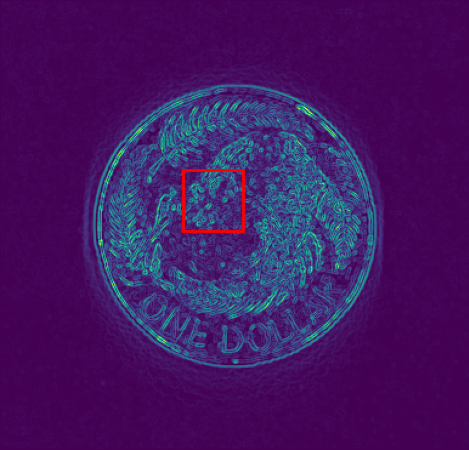
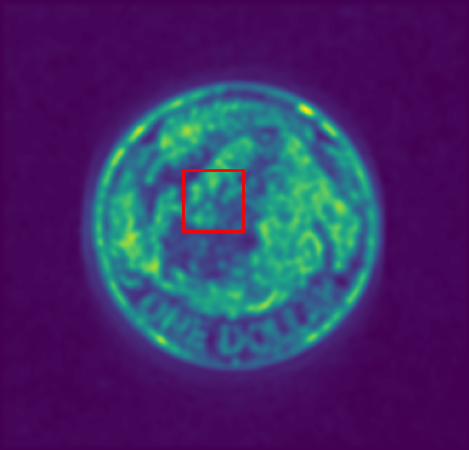
feat: implement mean filtering

Changed region(s): [[0.1493, 0.1556, 0.8358, 0.84]]

diff --git a/CS373_coin_detection.py b/CS373_coin_detection.py
@@ -151,6 +151,18 @@ def combined_scharr_filter(image_width, image_height, horizontal_scharr_px_array
             new_px_array[i][j] = abs(vertical_scharr_px_array[i][j]) + abs(horizontal_scharr_px_array[i][j])
     return new_px_array
 
+# 5x5 mean filter
+def mean_filter(image_width, image_height, px_array):
+    new_px_array = createInitializedGreyscalePixelArray(image_width, image_height)
+    for i in range(2, image_height - 2):
+        for j in range(2, image_width - 2):
+            sum = 0
+            for k in range(5):
+                for l in range(5):
+                    sum += px_array[i - 2 + k][j - 2 + l]
+            new_px_array[i][j] = abs(sum / 25)
+    return new_px_array
+    
 
 # This is our code skeleton that performs the coin detection.
 def main(input_path, output_path):
@@ -181,10 +193,13 @@ def main(input_path, output_path):
     vertical_scharr_px_array = vertical_scharr_filter(image_width, image_height, contrast_stretched_px_array)
 
     # Combine horizontal and vertical Scharr filters
-    px_array = combined_scharr_filter(image_width, image_height, horizontal_scharr_px_array, vertical_scharr_px_array)
+    combined_scharr_px_array = combined_scharr_filter(image_width, image_height, horizontal_scharr_px_array, vertical_scharr_px_array)
     
-    
-    
+    # Perform mean filter 3 times n loop
+    mean_filtered_px_array = mean_filter(image_width, image_height, combined_scharr_px_array)
+    mean_filtered_px_array = mean_filter(image_width, image_height, mean_filtered_px_array)
+    mean_filtered_px_array = mean_filter(image_width, image_height, mean_filtered_px_array)
+    px_array = mean_filtered_px_array
     
     ############################################
     ### Bounding box coordinates information ###
